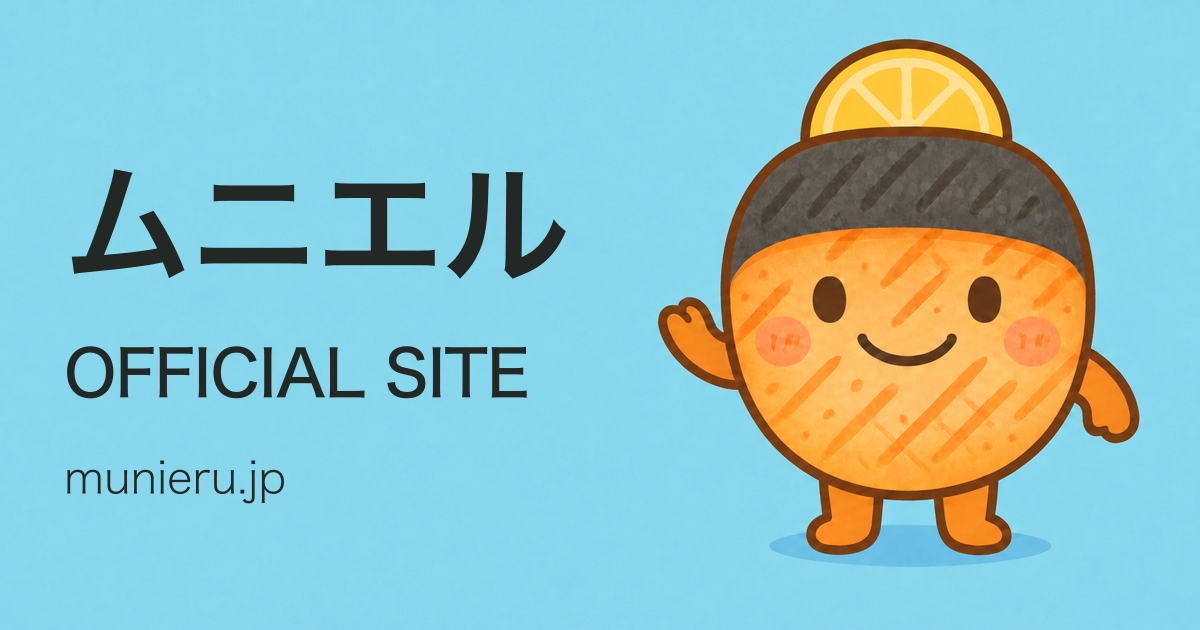
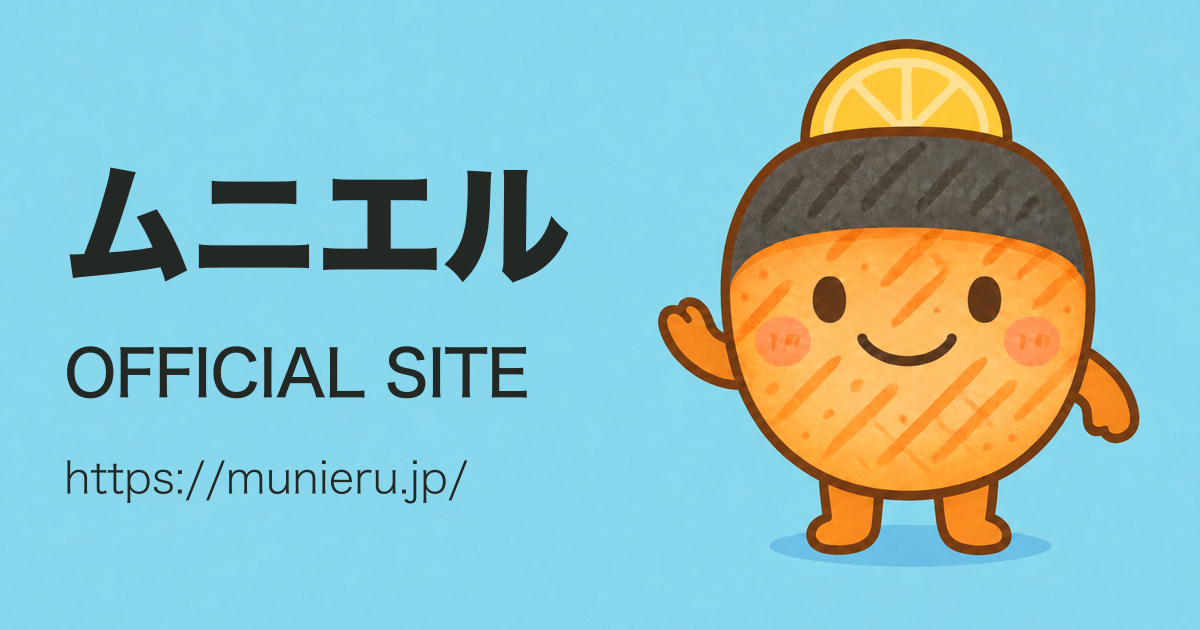
OGPの名前をW9に変更しURLを完全表記に統一

Changed region(s): [[0.0617, 0.2714, 0.4933, 0.4524], [0.0617, 0.7238, 0.4008, 0.8143], [0.185, 0.2714, 0.2467, 0.3317]]

diff --git a/scripts/generate-ogp.ts b/scripts/generate-ogp.ts
@@ -15,8 +15,8 @@ if (process.platform !== 'darwin') {
   throw new Error('OGPの再生成には、ヒラギノ角ゴシックがあるmacOSが必要です')
 }
 /** OS間・描画エンジン間のウェイト解釈に依存せず、実際の書体を指定する。 */
-const fontFamilies = { 3: 'OGP Hiragino W3', 6: 'OGP Hiragino W6', 7: 'OGP Hiragino W7' } as const
-for (const weight of [3, 6, 7] as const) {
+const fontFamilies = { 3: 'OGP Hiragino W3', 6: 'OGP Hiragino W6', 9: 'OGP Hiragino W9' } as const
+for (const weight of [3, 6, 9] as const) {
   const path = `/System/Library/Fonts/ヒラギノ角ゴシック W${weight}.ttc`
   try {
     await access(path)
@@ -30,9 +30,9 @@ for (const weight of [3, 6, 7] as const) {
 const segmenter = new Intl.Segmenter('ja', { granularity: 'grapheme' })
 const root = new URL('../', import.meta.url)
 const config = loadConfig()
-/** サイトと同じ公開URLを、画像に表示するホスト名と公開パスへ整形する。 */
+/** サイトと同じ公開URLを、プロトコルと末尾のスラッシュを含めて表示する。 */
 const siteUrl = new URL(config.BASE_URL)
-const displayUrl = siteUrl.host + siteUrl.pathname.replace(/\/$/, '')
+const displayUrl = siteUrl.href
 /** 表示文は翻訳辞書、出力先はサイトのOGP設定を共通の定義として使う。 */
 const images = [
   { site: ja.site, imagePath: config.OG_IMAGE_PATH },
@@ -48,7 +48,7 @@ const background = await loadImage(fileURLToPath(new URL('design/ogp/background.
  * @param text - 描画する文字列。
  * @param top - 画像上端からの位置（px）。
  * @param size - 初期フォントサイズ（px）。
- * @param weight - 登録したヒラギノの太さ（W3・W6・W7）。
+ * @param weight - 登録したヒラギノの太さ（W3・W6・W9）。
  * @param spacing - 字間（px）。省略時は0。
  * @throws 24pxまで縮小しても幅570pxに収まらない場合。
  */
@@ -96,7 +96,7 @@ for (const { site, imagePath } of images) {
   context.drawImage(background, 0, 0, width, height)
   context.fillStyle = '#242824'
   context.textBaseline = 'top'
-  drawText(context, site.name, 160, 128, 7, -2)
+  drawText(context, site.name, 160, 128, 9, -2)
   drawText(context, subtitle, 340, 64, 6, -1)
   drawText(context, displayUrl, 455, 44, 3)
   await mkdir(new URL('./', output), { recursive: true })

diff --git a/design/ogp/README.md b/design/ogp/README.md
@@ -4,8 +4,8 @@
 
 - 文字なし背景: `background.png`（image_genで従来のOGPから文字を除去した素材）
 - 書き出しスクリプト: `../../scripts/generate-ogp.ts`
-- 日本語版: `../../public/ogp.png`（ムニエル OFFICIAL SITE / munieru.jp）
-- 英語版: `../../public/en/ogp.png`（Munieru OFFICIAL SITE / munieru.jp）
+- 日本語版: `../../public/ogp.png`（ムニエル OFFICIAL SITE / https://munieru.jp/）
+- 英語版: `../../public/en/ogp.png`（Munieru OFFICIAL SITE / https://munieru.jp/）
 
 ## 再生成
 
@@ -18,11 +18,11 @@ npm rebuild canvas --ignore-scripts=false
 npm run generate:ogp
 ```
 
-Automatticの`canvas`（node-canvas）を使います。名前はヒラギノ角ゴシックW7、OFFICIAL SITEはW6、URLはW3のフォントファイルを直接登録し、描画エンジンによるCSSウェイトの解釈の違いを避けます。文字色は`#242824`、出力は1200×630pxのPNGです。macOS以外や必要な書体が見つからない環境では、代替フォントを使わず停止します。フォントファイル自体はリポジトリへ含めません。
+Automatticの`canvas`（node-canvas）を使います。名前はヒラギノ角ゴシックW9、OFFICIAL SITEはW6、URLはW3のフォントファイルを直接登録し、描画エンジンによるCSSウェイトの解釈の違いを避けます。文字色は`#242824`、出力は1200×630pxのPNGです。macOS以外や必要な書体が見つからない環境では、代替フォントを使わず停止します。フォントファイル自体はリポジトリへ含めません。
 
 `canvas`には`letterSpacing`がないため、文字列を書記素単位に分け、送り幅とカーニングを測定して字間を加えます。結合文字やサロゲートペアの途中では分割しません。
 
-名前・サイト名は`../../i18n/locales/ja.json`・`en.json`の`site.name`・`site.title`を、表示URLと出力先は`../../scripts/config.ts`の公開設定を参照します。サイト名を主名義とその後ろの文字列へ分け、既存の2行の組版を維持します。`site.title`は`site.name`に半角スペースを続けて始める形式にします。URLはホスト名と公開パスを表示し、プロトコルと末尾のスラッシュは省略します。
+名前・サイト名は`../../i18n/locales/ja.json`・`en.json`の`site.name`・`site.title`を、表示URLと出力先は`../../scripts/config.ts`の公開設定を参照します。サイト名を主名義とその後ろの文字列へ分け、既存の2行の組版を維持します。`site.title`は`site.name`に半角スペースを続けて始める形式にします。URLはプロトコルと末尾のスラッシュを含め、`https://munieru.jp/`の形式で表示します。
 
 文字を変更する場合は共通の定義を編集してから再生成してください。配置・太さはスクリプトで編集します。文字の変更にAIでの画像生成は不要です。背景を変更する場合だけ素材を更新します。ビルドやCIは生成済みPNGを配信するため、macOSやフォントのインストールは不要です。
 
